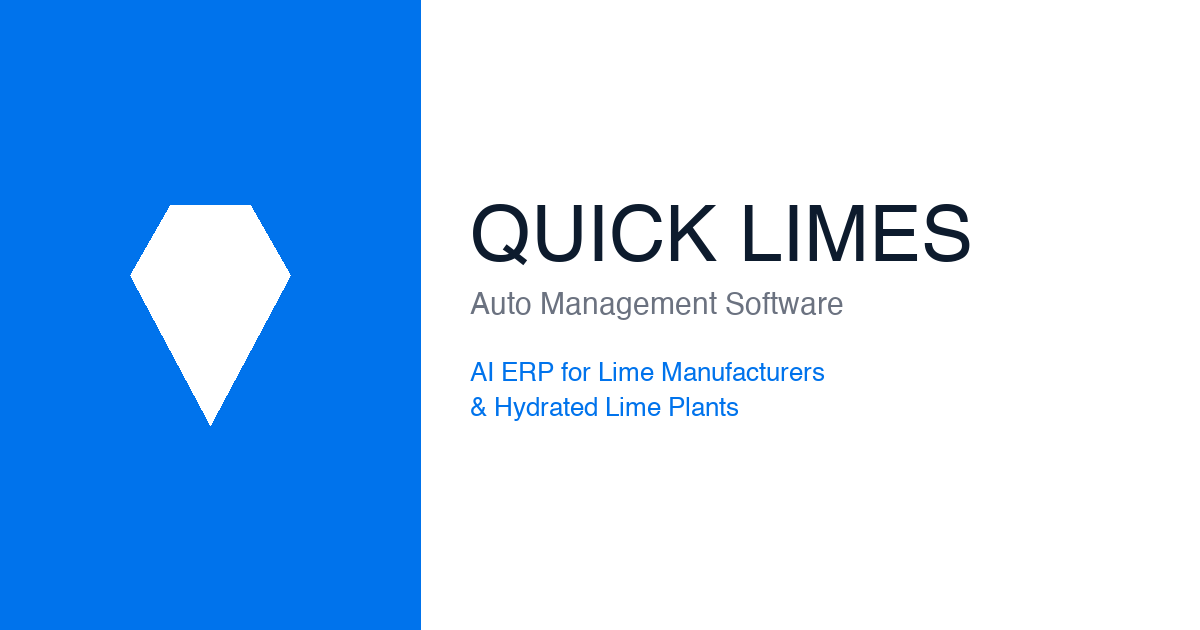
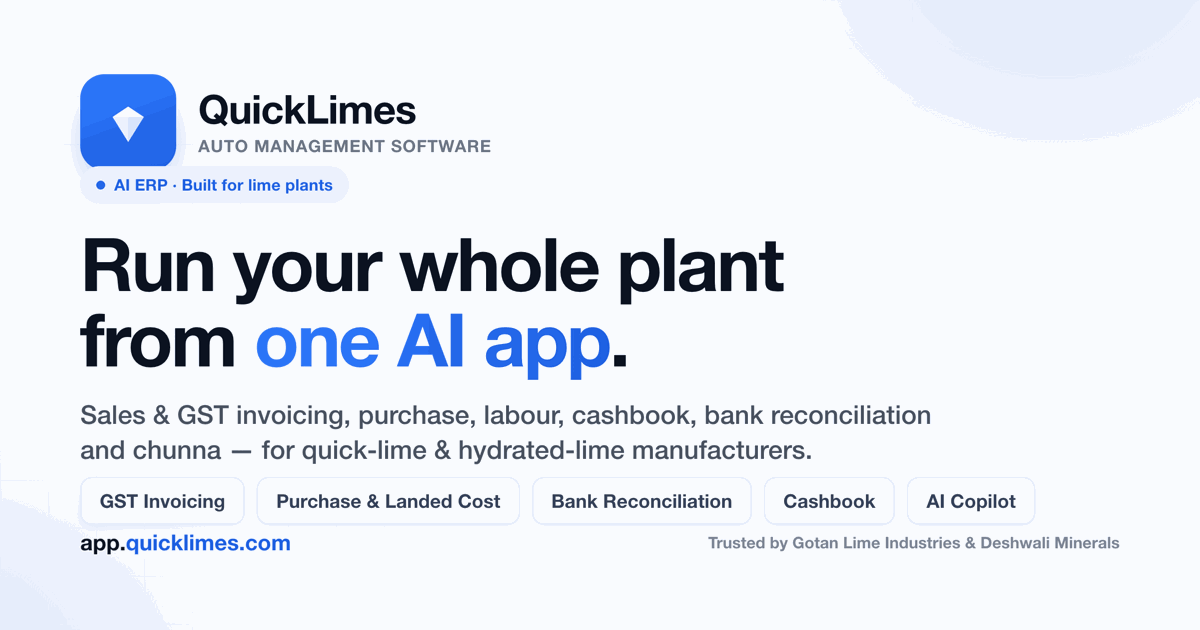
SEO/social: fix WhatsApp link preview + full metadata + branded OG image
The app root (app.quicklimes.com) is a JS-redirect page whose <head> had only
<title> — so WhatsApp/Facebook/LinkedIn previews were blank. Root cause fixed.

- dashboard/v2-redirect.html (app root): full Open Graph + Twitter Card +
  canonical + PNG favicons + apple-touch-icon + description.
- index.html (marketing): upgrade favicon/apple-touch to PNG, add og:image
  type/alt/secure_url, og:locale, twitter:image:alt, webmanifest; schema logo
  → square icon.
- New branded 1200x630 OG image (assets/og-image.png, 39KB, crisp) rendered
  from a designed card; PNG app icons (512/192/180) + favicons (32/16).
- site.webmanifest (PWA) + app-subdomain robots.txt (lets crawlers fetch the
  preview, keeps app internals out of the index).
- deploy.yml ships the manifest + app robots.txt.

Also carries the recon dedupe fix (false 'Duplicate' on distinct lines).

diff --git a/index.html b/index.html
@@ -9,22 +9,30 @@
 <link rel="alternate" hreflang="en" href="https://quicklimes.com/">
 <link rel="alternate" hreflang="hi" href="https://quicklimes.com/hi">
 <link rel="alternate" hreflang="x-default" href="https://quicklimes.com/">
+<link rel="icon" type="image/png" sizes="32x32" href="/assets/favicon-32.png">
+<link rel="icon" type="image/png" sizes="16x16" href="/assets/favicon-16.png">
 <link rel="icon" type="image/svg+xml" href="/icon.svg">
-<link rel="apple-touch-icon" href="/icon.svg">
-<meta name="theme-color" content="#0073EC">
+<link rel="apple-touch-icon" sizes="180x180" href="/assets/apple-touch-icon.png">
+<link rel="manifest" href="/site.webmanifest">
+<meta name="theme-color" content="#2563EB">
 <!-- Open Graph / link previews (WhatsApp, Slack, LinkedIn, etc.) -->
 <meta property="og:type" content="website">
 <meta property="og:url" content="https://quicklimes.com/">
 <meta property="og:title" content="QuickLimes — AI ERP for Lime Manufacturers">
 <meta property="og:description" content="Sales, GST invoicing, purchase, labour, cashbook and chunna for quick-lime &amp; hydrated-lime plants — in one AI-powered app.">
 <meta property="og:image" content="https://quicklimes.com/assets/og-image.png">
+<meta property="og:image:secure_url" content="https://quicklimes.com/assets/og-image.png">
+<meta property="og:image:type" content="image/png">
 <meta property="og:image:width" content="1200">
 <meta property="og:image:height" content="630">
+<meta property="og:image:alt" content="QuickLimes — run your whole lime plant from one AI app">
 <meta property="og:site_name" content="QuickLimes">
+<meta property="og:locale" content="en_IN">
 <meta name="twitter:card" content="summary_large_image">
 <meta name="twitter:title" content="QuickLimes — AI ERP for Lime Manufacturers">
 <meta name="twitter:description" content="Sales, GST invoicing, purchase, labour, cashbook and chunna for lime plants — in one AI-powered app.">
 <meta name="twitter:image" content="https://quicklimes.com/assets/og-image.png">
+<meta name="twitter:image:alt" content="QuickLimes — one AI app for lime plants">
 <!-- Structured data — Organization + SoftwareApplication for richer SERP -->
 <script type="application/ld+json">
 {
@@ -35,7 +43,7 @@
       "@id": "https://quicklimes.com/#org",
       "name": "QuickLimes",
       "url": "https://quicklimes.com/",
-      "logo": "https://quicklimes.com/assets/og-image.png",
+      "logo": "https://quicklimes.com/assets/icon-512.png",
       "email": "hello@quicklimes.com",
       "contactPoint": [
         {"@type":"ContactPoint","telephone":"+91-94697-67676","contactType":"customer support","areaServed":"IN","availableLanguage":["en","hi"]},

diff --git a/dashboard/v2-redirect.html b/dashboard/v2-redirect.html
@@ -3,9 +3,37 @@
 <head>
 <meta charset="UTF-8">
 <meta name="viewport" content="width=device-width, initial-scale=1">
-<title>QuickLimes</title>
+<title>QuickLimes — AI ERP for Lime Manufacturers</title>
+<meta name="description" content="Run your whole quick-lime & hydrated-lime plant from one AI app — sales, GST invoicing, purchase, labour, cashbook and bank reconciliation.">
 <meta name="theme-color" content="#2563EB">
+<link rel="canonical" href="https://app.quicklimes.com/">
+
+<!-- icons -->
+<link rel="icon" type="image/png" sizes="32x32" href="/assets/favicon-32.png">
+<link rel="icon" type="image/png" sizes="16x16" href="/assets/favicon-16.png">
 <link rel="icon" type="image/svg+xml" href="/icon.svg">
+<link rel="apple-touch-icon" sizes="180x180" href="/assets/apple-touch-icon.png">
+
+<!-- Open Graph (Facebook / WhatsApp / LinkedIn) -->
+<meta property="og:type" content="website">
+<meta property="og:site_name" content="QuickLimes">
+<meta property="og:url" content="https://app.quicklimes.com/">
+<meta property="og:title" content="QuickLimes — AI ERP for Lime Manufacturers">
+<meta property="og:description" content="Run your whole quick-lime & hydrated-lime plant from one AI app — sales, GST invoicing, purchase, labour, cashbook and bank reconciliation.">
+<meta property="og:image" content="https://app.quicklimes.com/assets/og-image.png">
+<meta property="og:image:secure_url" content="https://app.quicklimes.com/assets/og-image.png">
+<meta property="og:image:type" content="image/png">
+<meta property="og:image:width" content="1200">
+<meta property="og:image:height" content="630">
+<meta property="og:image:alt" content="QuickLimes — run your whole lime plant from one AI app">
+<meta property="og:locale" content="en_IN">
+
+<!-- Twitter / X -->
+<meta name="twitter:card" content="summary_large_image">
+<meta name="twitter:title" content="QuickLimes — AI ERP for Lime Manufacturers">
+<meta name="twitter:description" content="Run your whole quick-lime & hydrated-lime plant from one AI app — sales, GST invoicing, purchase, labour, cashbook and bank reconciliation.">
+<meta name="twitter:image" content="https://app.quicklimes.com/assets/og-image.png">
+<meta name="twitter:image:alt" content="QuickLimes — one AI app for lime plants">
 <style>
   html, body { margin: 0; height: 100%; background: #F8FAFC; }
   .ld { height: 100%; display: flex; align-items: center; justify-content: center;
